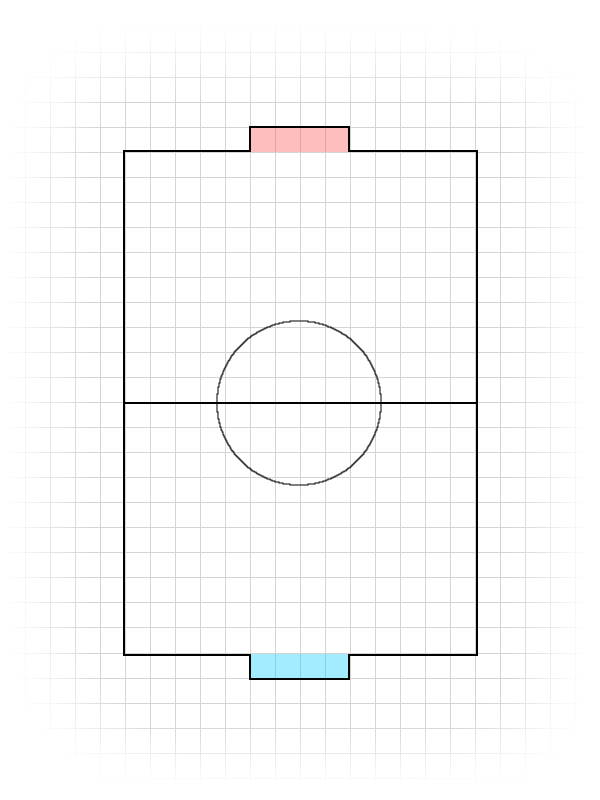
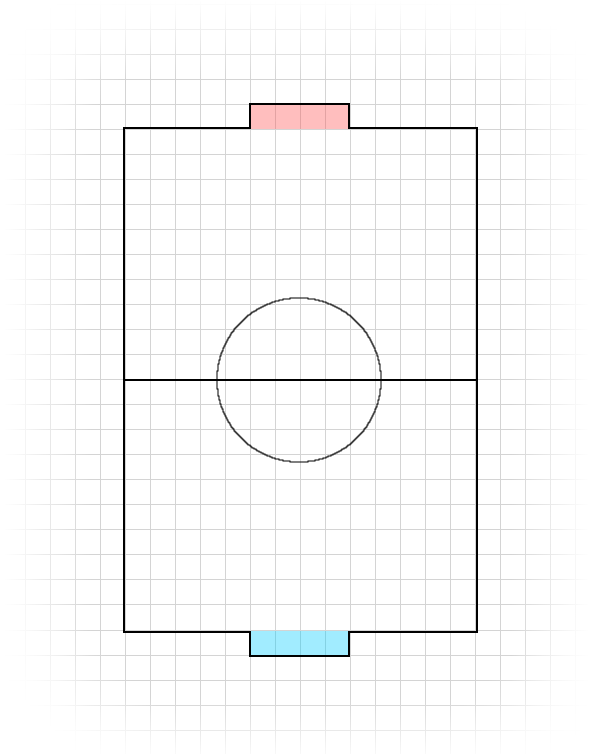
Game field change and some game logic

Changed region(s): [[0.18, 0.7931, 0.81, 0.8846], [0.18, 0.122, 0.81, 0.2135], [0.36, 0.366, 0.66, 0.6406]]

diff --git a/models/sockets.js b/models/sockets.js
@@ -11,7 +11,6 @@ function getNames(red,blue){
     return {red: rTeam, blue: bTeam};
 }
 
-
 function removeDisconnected(arr,token){
     var deleted = false;
     var index = 0;
@@ -67,12 +66,13 @@ function comparePath(current, move, start, end){
         return false;
 }
 
+//----TODO REFAKTOR------------------------
+//-----------------------------------------
 function generateMoves(current, data){
     var moves = createMoves(current);
     
     //jesteśmy przy ściankach
     if(current.x == 0 || current.x == 14){
-        var toDel = [];
         for(var i=0; i< moves.length;i++){
             if(moves[i].x == current.x)
                 moves[i].forbidden = true;
@@ -80,18 +80,30 @@ function generateMoves(current, data){
     }
     //jesteśmy na środku
     if(current.y == 10){
-        var toDel = [];
         for(var i=0; i< moves.length;i++){
             if(moves[i].y == current.y)
                 moves[i].forbidden = true;
         }
     }
+    //jesteśmy u góry lub na dole i jeszcze ochrniaamy ze mozemy do bramki wrzucic
+    if(current.y == 0 || current.y == 20){
+        for(var i=0; i< moves.length;i++){
+            if(moves[i].y == current.y && (moves[i].x < 6 || moves[i].x > 8))
+                moves[i].forbidden = true;
+        }
+    }
+
     //czy ścieżka już nie była wykożystana ;)
     if(data != undefined){
         for(var i=0; i< data.length; i++)
             for(var j=0; j < moves.length;j++)
                 if(comparePath(current,moves[j],data[i].start,data[i].end))
                     moves[j].forbidden = true;
+    }
+
+    for(var i=0; i< moves.length;i++){
+        if(moves[i].x < 0 || moves[i].x > 14 || moves[i].y < 0 || moves[i].y > 20)
+            moves[i].forbidden = true;
     }
     
     return moves;
@@ -111,43 +123,84 @@ function checkIfCanMoveMore(current, path){
     return false;
 }
 
+function checkIfDraw(moves){
+    for(var i=0; i<moves.length; i++){
+        if(!moves[i].forbidden)
+            return false;
+    }
+
+    return true;
+}
+
+function findToken(id, red, blue){
+    for(var i=0; i< red.length;i++)
+        if(red[i].id == id)
+            return red[i].token;
+
+     for(var i=0; i< blue.length;i++)
+        if(blue[i].id == id)
+            return blue[i].token;
+
+    return false;
+}
+
+function hakierCheck(current, moves, expectedToken, req){
+    //czy odpowiednia osoba wyslala request
+    if(req.token != expectedToken)
+        return false;
+
+    //czy ruch jest taki jak być powinien i nie jest zabroniony 
+    if(req.path.start.x != current.x || req.path.start.y != current.y)
+        return false;
+
+    for(var i=0; i< moves.length;i++){
+        if(moves[i].x == req.path.end.x && moves[i].y == req.path.end.y && !moves[i].forbidden)
+            return true;
+    }
+
+    return false;
+}
+
 //----Tutaj dzieje się magia - > server zarządza odebranym obiektem i zarządza grą --------------
 function gameEngine(data, red, blue, req){
 
-     //----dodaj ścieżke
-    data.path.push(req.path);
-    //----zmień punkt teraźniejszy
-    data.current = req.path.end;
-    //----ustaw możliwe ruchy
-    data.moves = generateMoves(data.current,data.path);
+    if(hakierCheck(data.current, data.moves, findToken(data.user,red,blue), req)){
+        //----dodaj ścieżke
+        data.path.push(req.path);
+        //----zmień punkt teraźniejszy
+        data.current = req.path.end;
+        //----ustaw możliwe ruchy
+        data.moves = generateMoves(data.current,data.path);
 
-    //KTOS WYGRAŁ?
-    if(data.current.x >= 6 && data.current.x <= 8){
-        if(data.current.y == 0)
-            data.win = "b";
-        else if(data.current.y == 20)
-            data.win = "r";
+        //KTOS WYGRAŁ?
+        if(data.current.x >= 6 && data.current.x <= 8){
+            if(data.current.y == 0)
+                data.win = "b";
+            else if(data.current.y == 20)
+                data.win = "r";
+        }
+
+        if(!data.win && checkIfDraw(data.moves))
+            data.win = "rb";
+
+        //nie zmieniaj druzyny jesli mozna ruszyc jeszcze raz
+        if(!checkIfCanMoveMore(data.current,data.path)){
+            //----odpowiednia drużyna ma teraz kolej
+            if(data.now == "b")
+                data.now = "r";
+            else
+                data.now = "b";
+        }
+
+        //----odpowiednia osoba ma teraz kolej
+        if(data.now == "b" && blue.length > 0)
+            data.user = blue[0].id;
+        else if(data.now == "r" && red.length > 0)
+            data.user = red[0].id;
     }
-
-    //nie zmieniaj druzyny jesli mozna ruszyc jeszcze raz
-    if(!checkIfCanMoveMore(data.current,data.path)){
-        //----odpowiednia drużyna ma teraz kolej
-        if(data.now == "b")
-            data.now = "r";
-        else
-            data.now = "b";
-    }
-
-    //----odpowiednia osoba ma teraz kolej
-    if(data.now == "b" && blue.length > 0)
-        data.user = blue[0].id;
-    else if(data.now == "r" && red.length > 0)
-        data.user = red[0].id;
 
     return data;
 }
-
-
 
 function setSocket(io){
     var redTeam = [];

diff --git a/public/css/style.css b/public/css/style.css
@@ -1,1 +1,1 @@
-.nonSelect{-webkit-touch-callout:none;-webkit-user-select:none;-khtml-user-select:none;-moz-user-select:none;-ms-user-select:none;user-select:none}.fieldWrap{margin:0;padding:0;border:none;height:25px}.fieldPiece{margin:0;padding:0;border:none;width:25px;height:25px;display:inline-block;position:relative}#gameField{-webkit-touch-callout:none;-webkit-user-select:none;-khtml-user-select:none;-moz-user-select:none;-ms-user-select:none;user-select:none;height:660px;width:600px;text-align:center;padding-top:140px;margin:0 auto 0 auto;background-image:url(/img/gameField.png)}.dot{-webkit-touch-callout:none;-webkit-user-select:none;-khtml-user-select:none;-moz-user-select:none;-ms-user-select:none;user-select:none;margin:0;padding:0;border:none;width:4px;height:4px;border-radius:3px;position:relative;top:11px;left:11px}.flagged{background:black}.current{background:#ff7550;width:6px;height:6px;top:10px;left:10px}.move{background:green}.invisible{display:none;position:absolute}
+.nonSelect{-webkit-touch-callout:none;-webkit-user-select:none;-khtml-user-select:none;-moz-user-select:none;-ms-user-select:none;user-select:none}.fieldWrap{margin:0;padding:0;border:none;height:25px}.fieldPiece{margin:0;padding:0;border:none;width:25px;height:25px;display:inline-block;position:relative}#gameField{-webkit-touch-callout:none;-webkit-user-select:none;-khtml-user-select:none;-moz-user-select:none;-ms-user-select:none;user-select:none;position:relative;height:637px;width:600px;text-align:center;padding-top:117px;margin:0 auto 0 auto;background-image:url(/img/gameField.png)}.dot{-webkit-touch-callout:none;-webkit-user-select:none;-khtml-user-select:none;-moz-user-select:none;-ms-user-select:none;user-select:none;margin:0;padding:0;border:none;width:4px;height:4px;border-radius:3px;position:relative;top:11px;left:11px}.flagged{background:black}.current{background:#EBAB3B;width:6px;height:6px;top:10px;left:10px}.move{background:green}.invisible{display:none;position:absolute}

diff --git a/less/style.less b/less/style.less
@@ -25,10 +25,11 @@
 
 #gameField{
 	.nonSelect;
-	height:660px;
+	position: relative;
+	height:637px;
 	width: 600px;
 	text-align: center;
-	padding-top: 140px;
+	padding-top: 117px;
 	margin: 0 auto 0 auto;
 	background-image: url(/img/gameField.png);
 }
@@ -48,7 +49,7 @@
 	background: black;
 }
 .current{
-	background: #ff7550;
+	background: #EBAB3B;
 	width:  6px;
 	height: 6px;
 	top:  10px;
